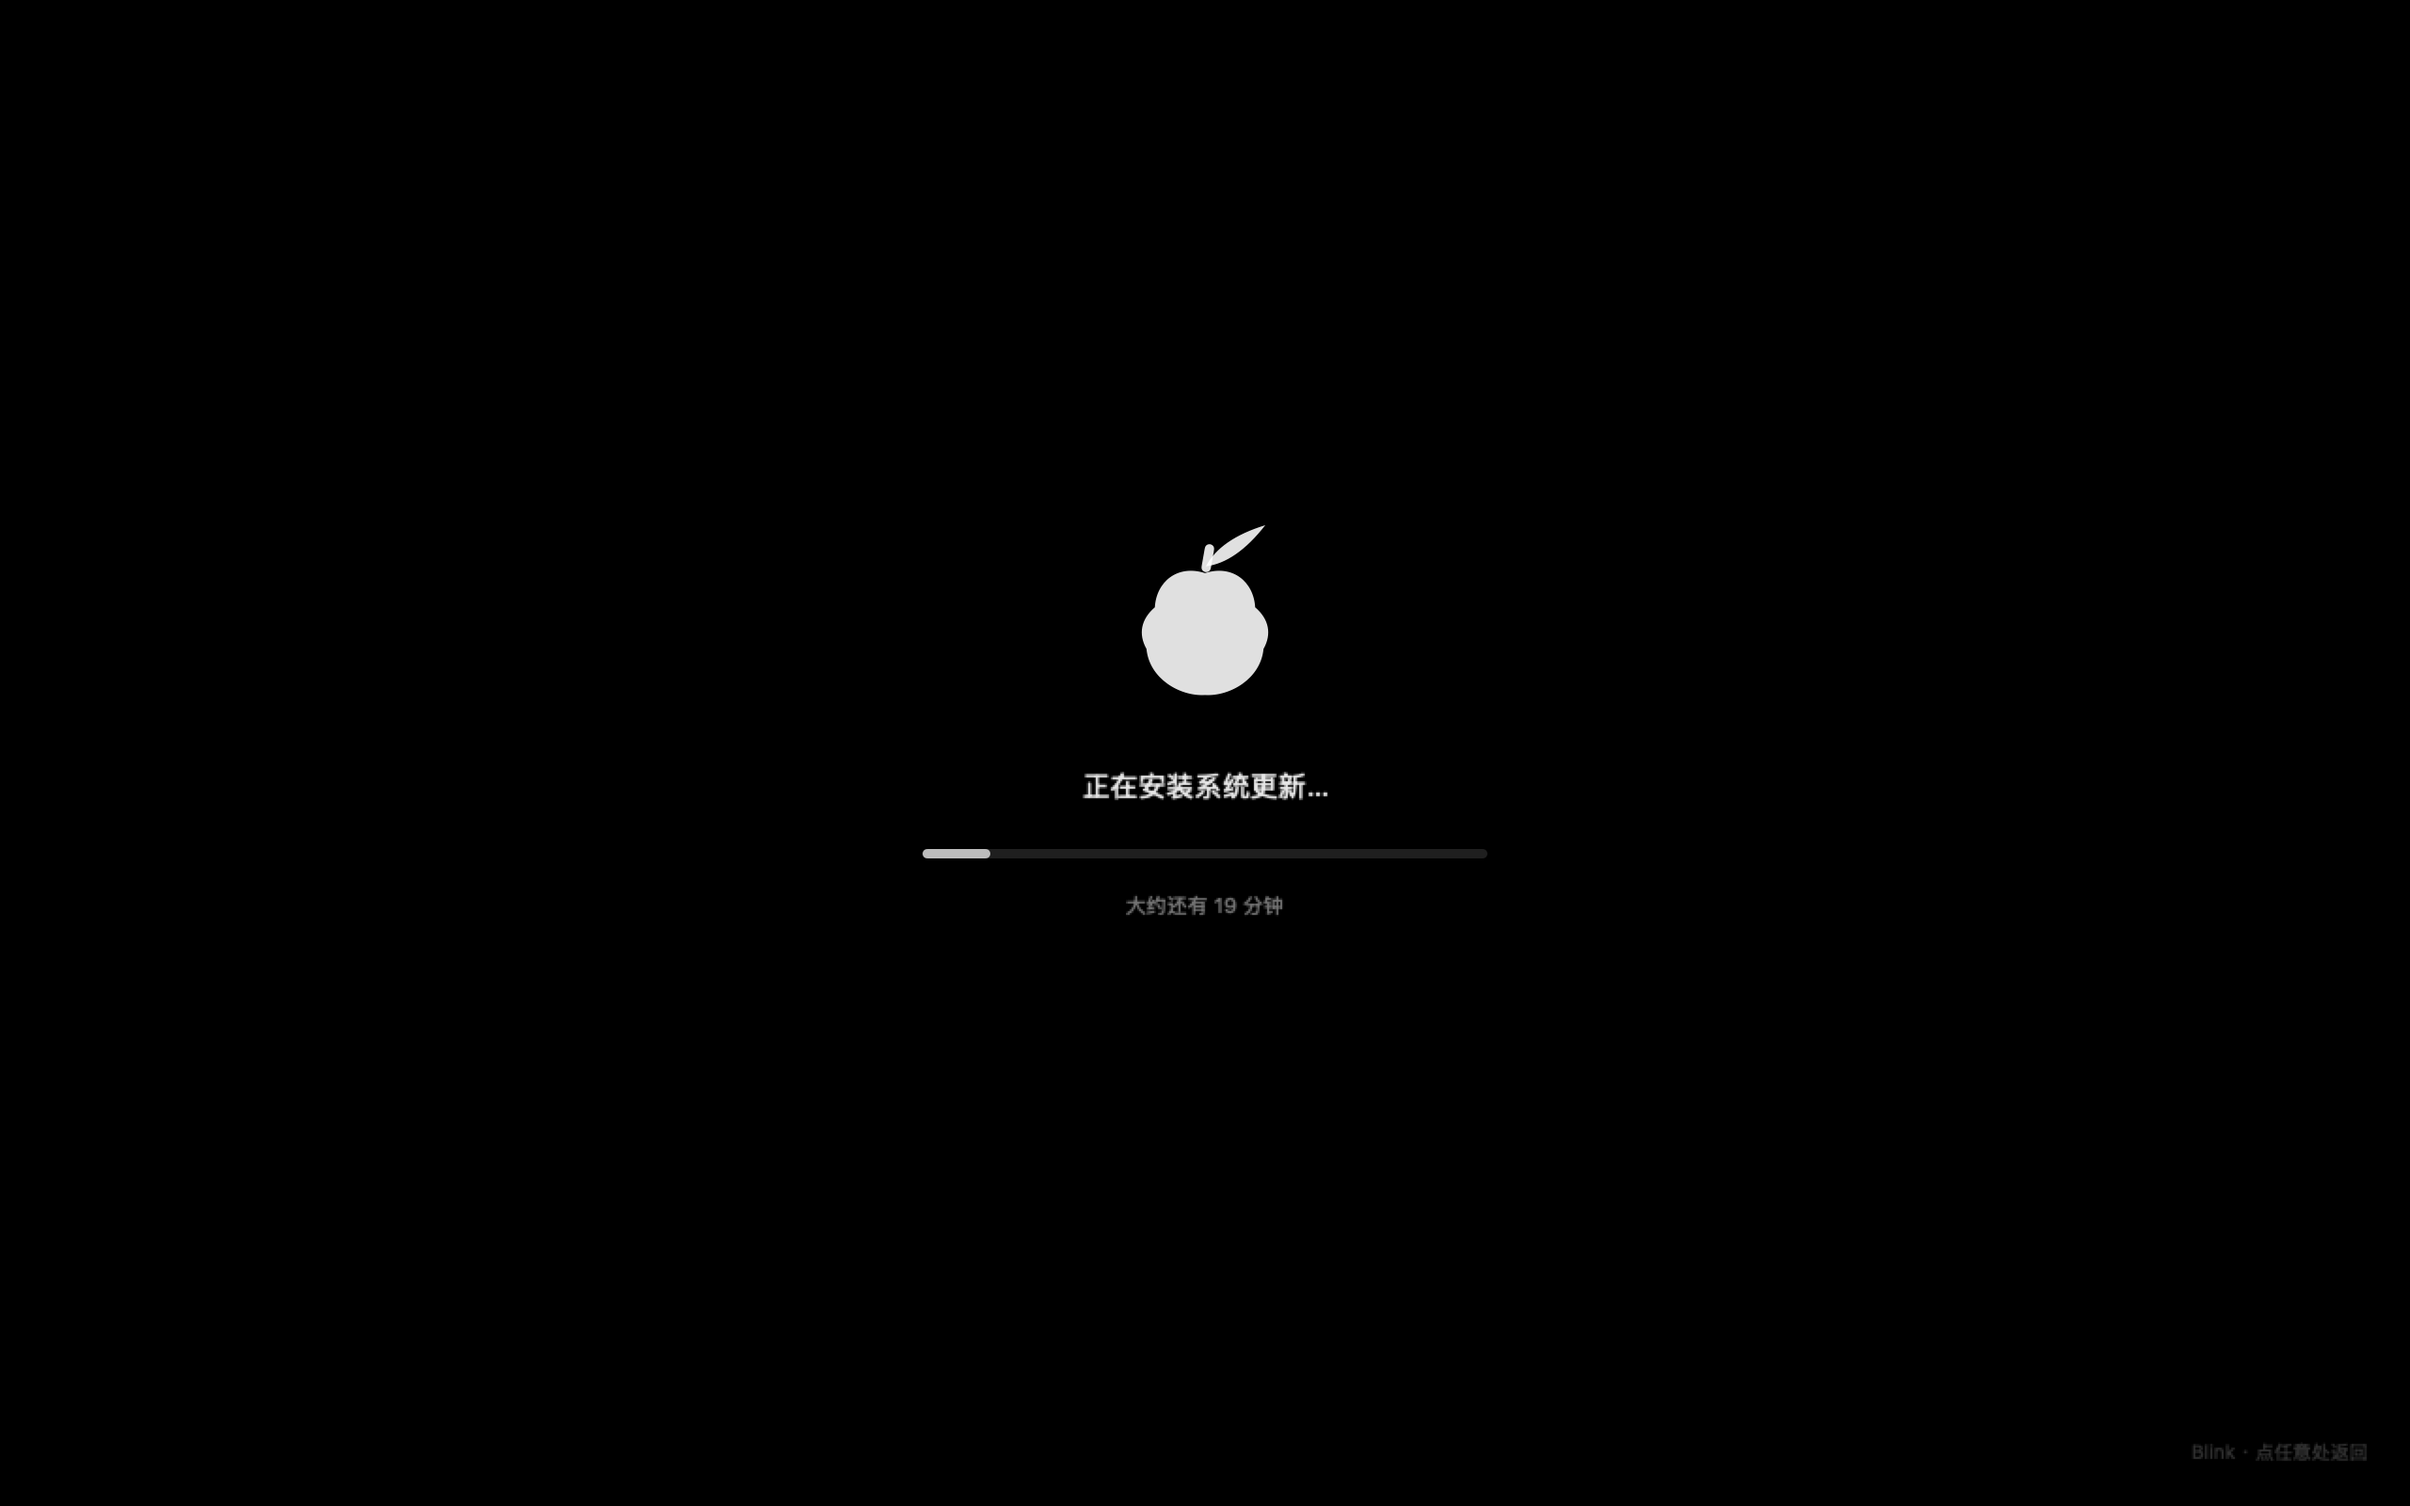
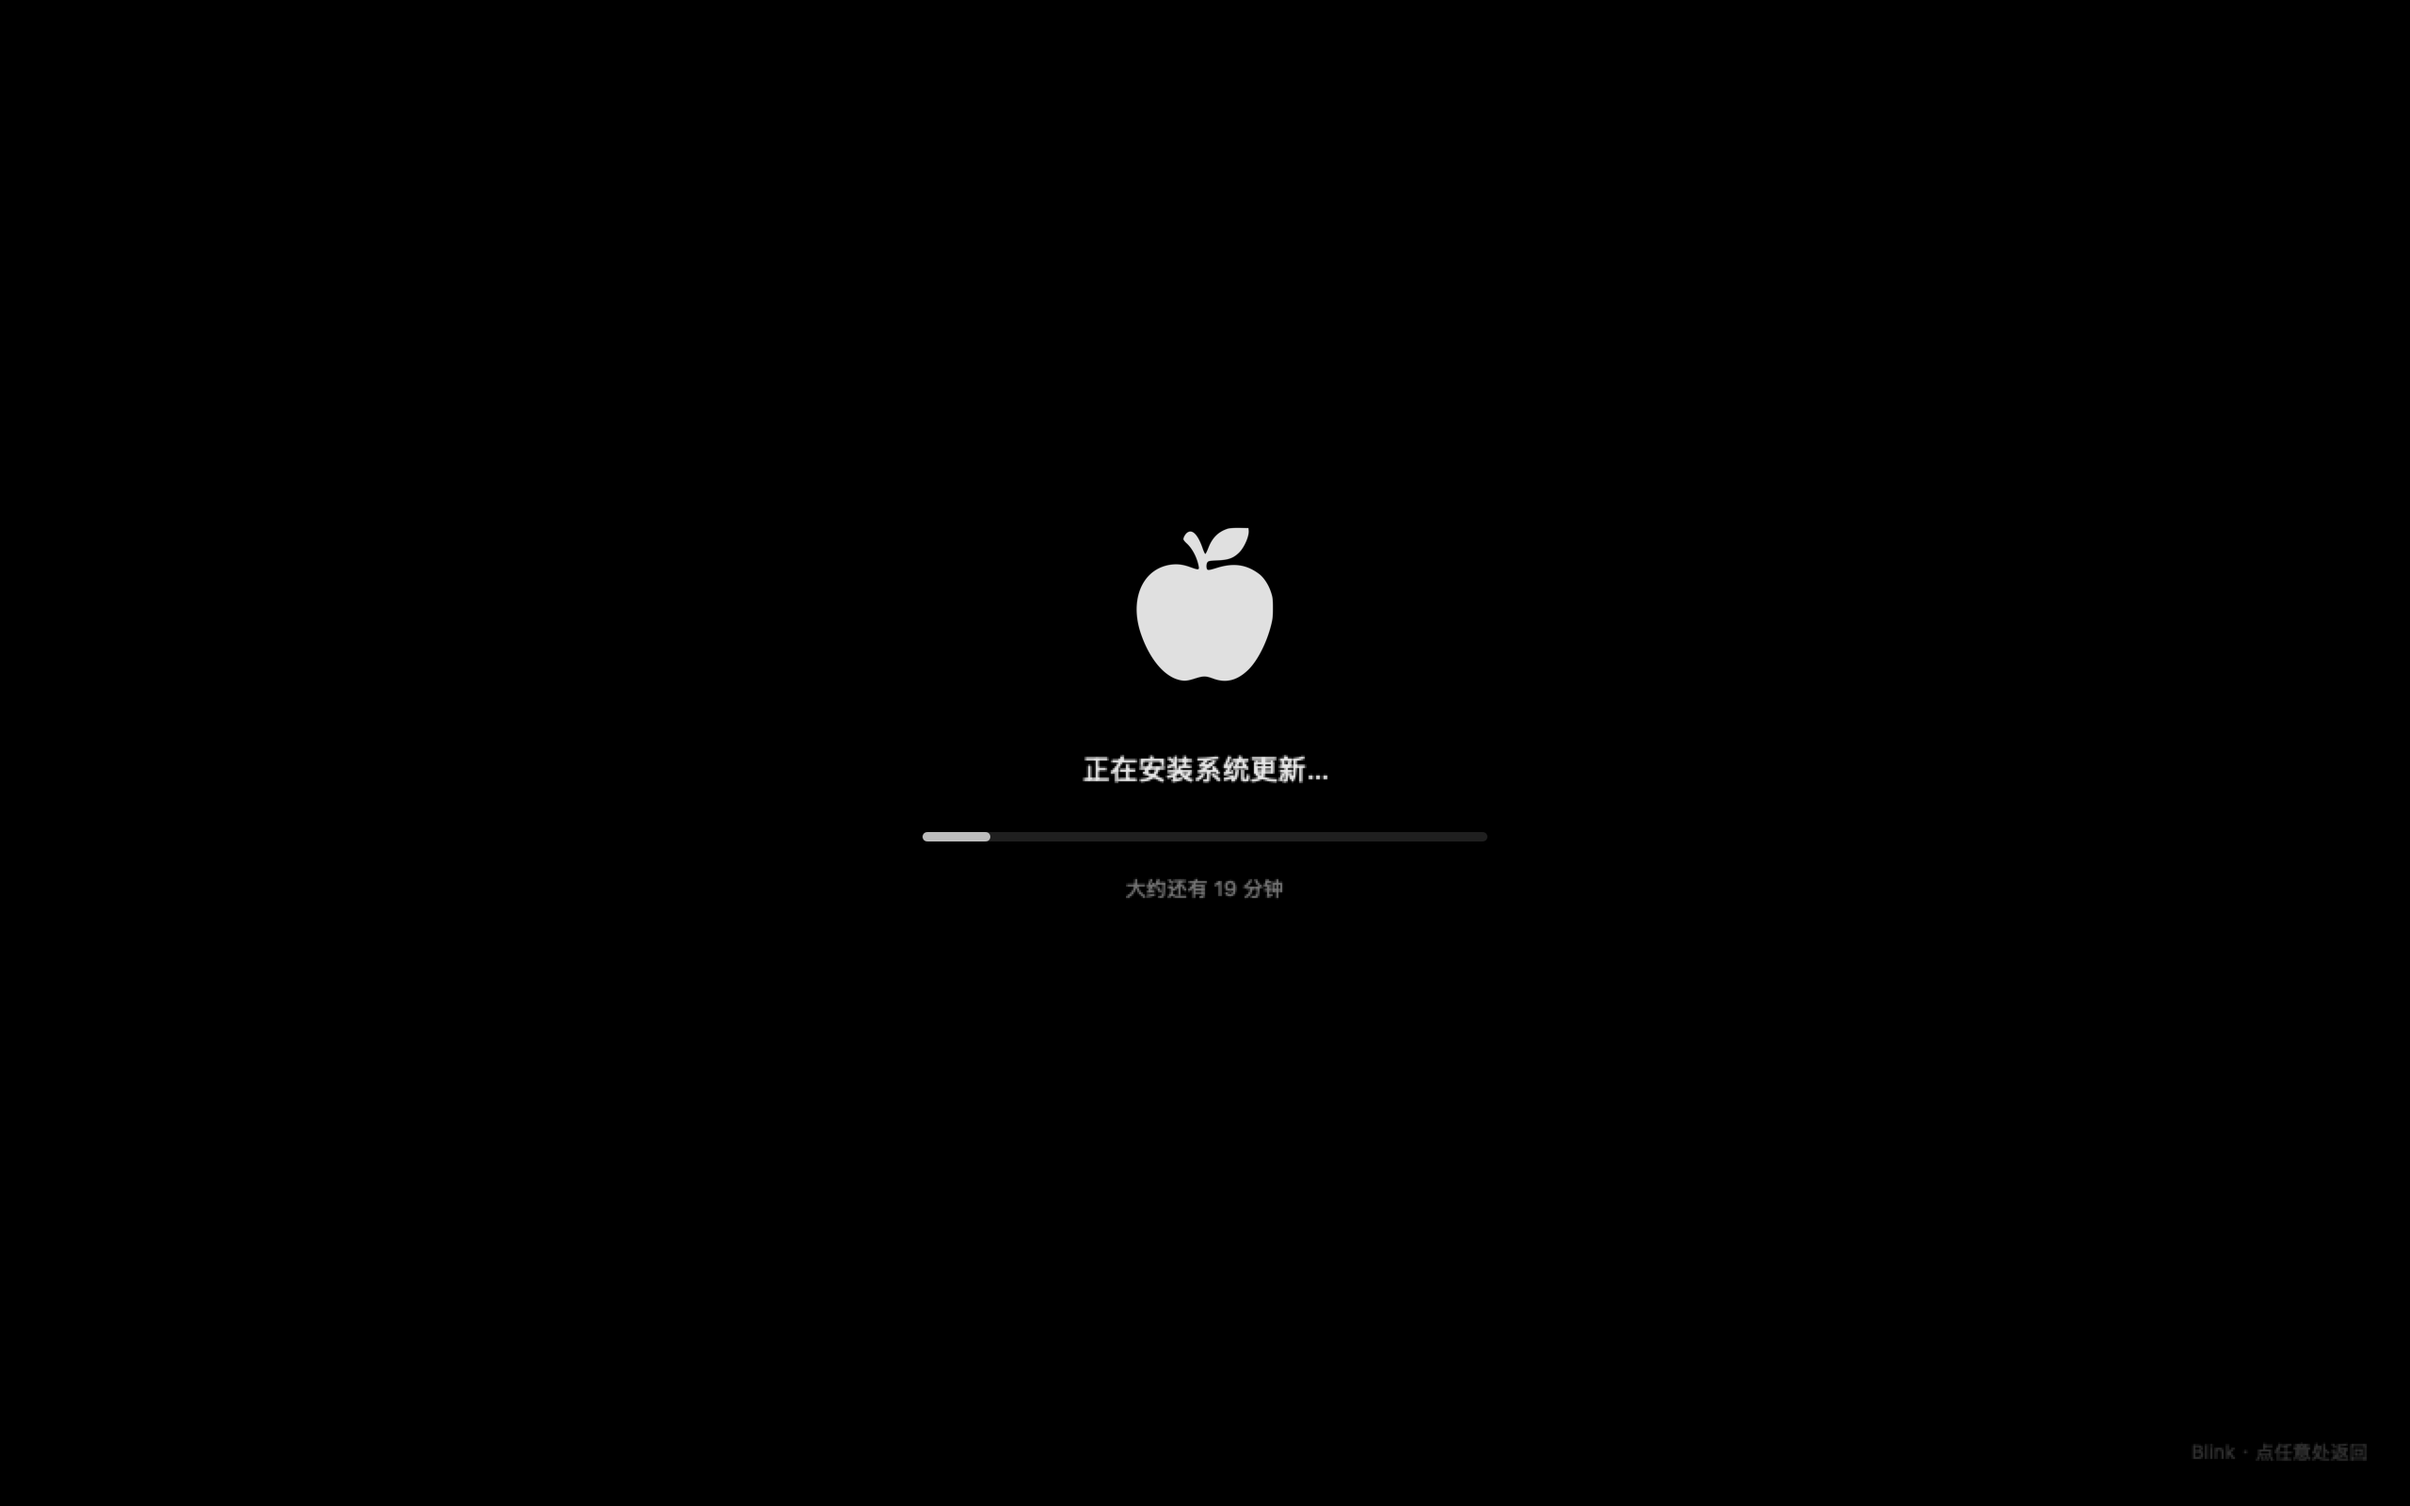
Camouflage: use an Apple silhouette asset instead of the drawn mark

Changed region(s): [[0.375, 0.5, 0.625, 0.625], [0.4688, 0.3438, 0.5312, 0.4062], [0.4688, 0.4375, 0.5312, 0.4688]]

diff --git a/Sources/Blink/CamouflageController.swift b/Sources/Blink/CamouflageController.swift
@@ -15,70 +15,29 @@ final class CamouflageSession: ObservableObject {
     }
 }
 
-/// 一个完整的苹果：没有咬口，也就不是 Apple 的标志。
-/// 用一条连续的手绘轮廓，顶部中间下凹（果梗的位置），两侧圆润，底部收拢，
-/// 比并集一堆椭圆更容易做出"苹果"的体感。
-struct AppleFruitShape: Shape {
-    func path(in rect: CGRect) -> Path {
-        var p = Path()
-        let w = rect.width
-        let h = rect.height
-
-        func pt(_ x: CGFloat, _ y: CGFloat) -> CGPoint {
-            CGPoint(x: rect.minX + x * w, y: rect.minY + y * h)
-        }
-
-        p.move(to: pt(0.50, 0.17))
-        p.addCurve(to: pt(0.86, 0.40), control1: pt(0.70, 0.11), control2: pt(0.85, 0.23))
-        p.addCurve(to: pt(0.92, 0.68), control1: pt(0.96, 0.48), control2: pt(0.98, 0.58))
-        p.addCurve(to: pt(0.50, 0.99), control1: pt(0.90, 0.88), control2: pt(0.68, 1.00))
-        p.addCurve(to: pt(0.08, 0.68), control1: pt(0.32, 1.00), control2: pt(0.10, 0.88))
-        p.addCurve(to: pt(0.14, 0.40), control1: pt(0.02, 0.58), control2: pt(0.04, 0.48))
-        p.addCurve(to: pt(0.50, 0.17), control1: pt(0.15, 0.23), control2: pt(0.30, 0.11))
-        return p
-    }
-}
-
-/// 一片两头尖的叶子，比椭圆更像叶，不会堆成菠萝冠。
-struct AppleLeafShape: Shape {
-    func path(in rect: CGRect) -> Path {
-        var p = Path()
-        func pt(_ x: CGFloat, _ y: CGFloat) -> CGPoint {
-            CGPoint(x: rect.minX + x * rect.width, y: rect.minY + y * rect.height)
-        }
-        p.move(to: pt(0.02, 0.55))
-        p.addQuadCurve(to: pt(0.98, 0.08), control: pt(0.34, -0.04))
-        p.addQuadCurve(to: pt(0.02, 0.55), control: pt(0.42, 0.78))
-        return p
-    }
-}
-
 struct AppleFruitMark: View {
     var size: CGFloat = 52
-    var tint: Color = Color.white.opacity(0.88)
+    var opacity: Double = 0.88
+
+    /// 白色苹果剪影，从资源包加载（不是自绘，也不是 Apple 商标里那个带咬口的标志）
+    private static let mark: NSImage? = {
+        guard let url = Bundle.module.url(forResource: "apple-mark", withExtension: "png") else {
+            return nil
+        }
+        return NSImage(contentsOf: url)
+    }()
 
     var body: some View {
-        ZStack {
-            AppleFruitShape()
-                .fill(tint)
-                .frame(width: size * 0.96, height: size * 1.02)
-                .offset(y: size * 0.12)
-
-            // 梗
-            Capsule()
-                .fill(tint)
-                .frame(width: size * 0.058, height: size * 0.20)
-                .rotationEffect(.degrees(10))
-                .offset(x: size * 0.02, y: -size * 0.315)
-
-            // 叶
-            AppleLeafShape()
-                .fill(tint)
-                .frame(width: size * 0.50, height: size * 0.22)
-                .rotationEffect(.degrees(-22))
-                .offset(x: size * 0.225, y: -size * 0.36)
+        Group {
+            if let mark = Self.mark {
+                Image(nsImage: mark)
+                    .resizable()
+                    .interpolation(.high)
+                    .scaledToFit()
+                    .frame(width: size * 1.08, height: size * 1.10)
+                    .opacity(opacity)
+            }
         }
-        .frame(width: size * 1.1, height: size * 1.45)
     }
 }
 
@@ -91,7 +50,7 @@ struct CamouflageScene: View {
             Color.black.ignoresSafeArea()
 
             VStack(spacing: 0) {
-                AppleFruitMark(size: 78)
+                AppleFruitMark(size: 88)
                     .padding(.bottom, 30)
 
                 Text(L10n.s("正在安装系统更新…", "Installing system update…"))

diff --git a/Package.swift b/Package.swift
@@ -10,7 +10,8 @@ let package = Package(
     targets: [
         .executableTarget(
             name: "Blink",
-            path: "Sources/Blink"
+            path: "Sources/Blink",
+            resources: [.process("Assets")]
         )
     ]
 )
